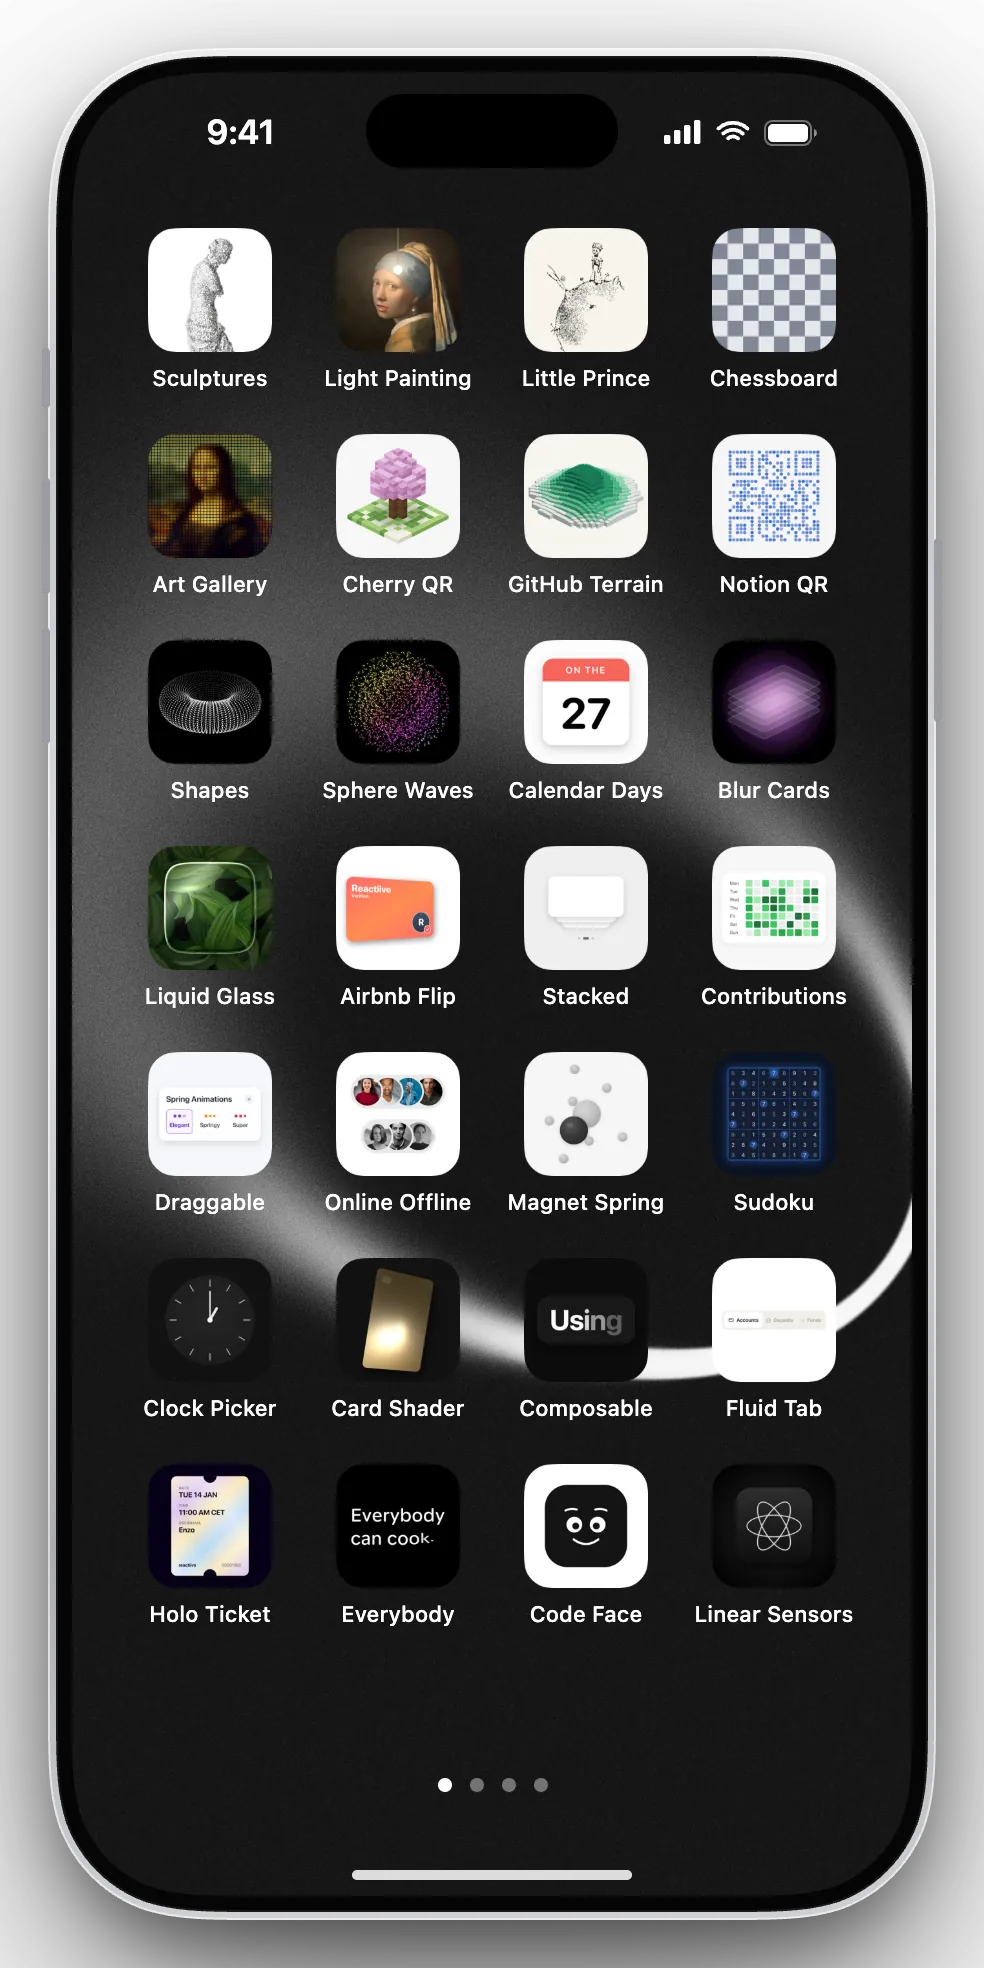
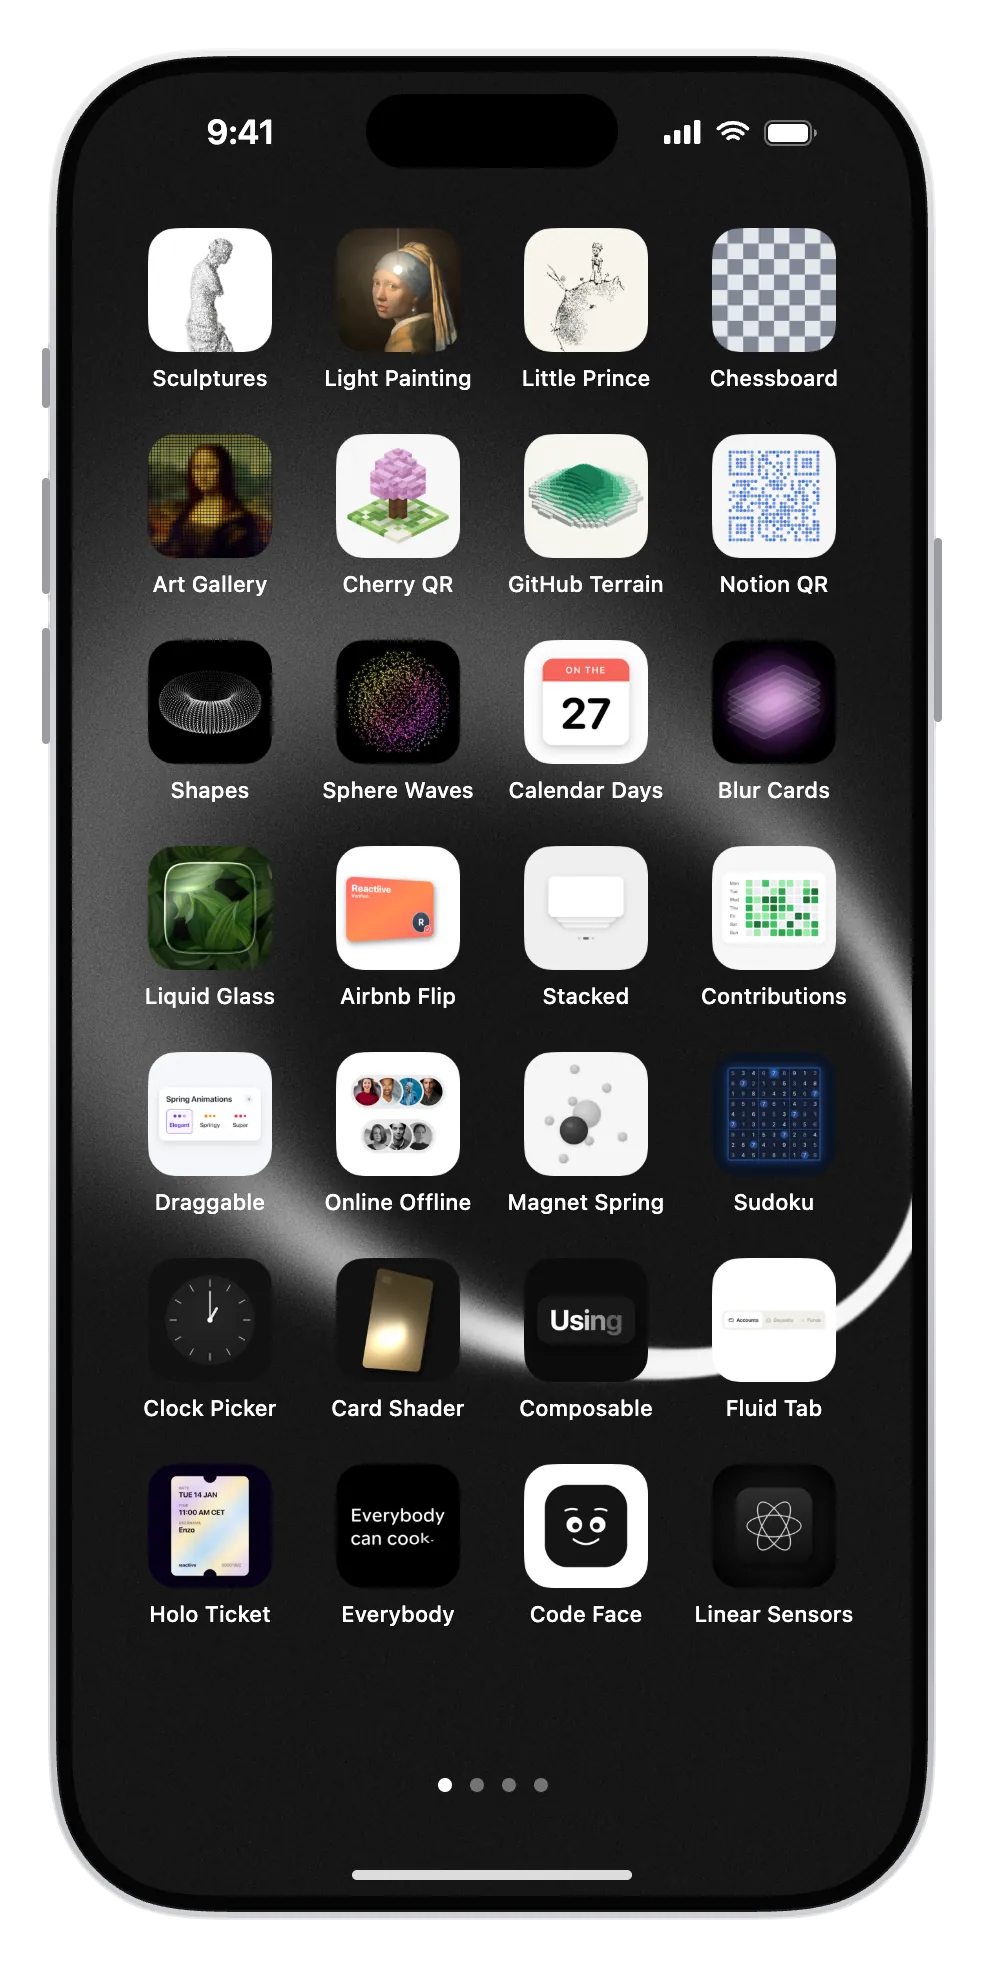
site demos: no dark rectangle around the phone (the still had the app's drop shadow baked in, cut at its edge)
The still is shot without it; the page's own shadow under the device is lighter (.42 / .28).
D18 notes both fixes.

Changed region(s): [[0.0, 0.031, 1.0, 1.0], [0.122, 0.0, 0.8537, 0.031]]

diff --git a/.site/web/head.css b/.site/web/head.css
@@ -122,7 +122,7 @@ main:has([data-motion~=d-page]) ~ *{visibility:hidden}
 [data-motion~=sim-col]::after{content:'';position:absolute;z-index:-1;left:50%;top:50%;width:calc(var(--pw) * 2.8);height:calc(var(--ph) * 1.3);translate:-50% -50%;background:radial-gradient(closest-side,rgb(140 156 250 / .2),rgb(125 143 239 / .07) 48%,transparent);pointer-events:none}
 [data-motion~=sim-wrap]{overflow:visible !important;mask-image:none !important;padding:0 !important;margin:0 !important;flex-shrink:0}
 [data-motion~=sim-sides]{mask-image:none;position:relative}
-[data-motion~=sim-sides]::before{content:'';position:absolute;left:50%;top:50%;width:calc(var(--pw) * .9);height:calc(var(--ph) * .96);translate:-50% -48%;border-radius:calc(var(--ph) * .08);box-shadow:0 calc(var(--ph) * .05) calc(var(--ph) * .12) rgb(0 0 0 / .55),0 calc(var(--ph) * .015) calc(var(--ph) * .03) rgb(0 0 0 / .35);pointer-events:none}
+[data-motion~=sim-sides]::before{content:'';position:absolute;left:50%;top:50%;width:calc(var(--pw) * .9);height:calc(var(--ph) * .96);translate:-50% -48%;border-radius:calc(var(--ph) * .08);box-shadow:0 calc(var(--ph) * .05) calc(var(--ph) * .12) rgb(0 0 0 / .42),0 calc(var(--ph) * .015) calc(var(--ph) * .03) rgb(0 0 0 / .28);pointer-events:none}
 [data-motion~=sim-sides]::after{content:'';position:absolute;left:50%;top:calc(50% + var(--ph) / 2 - var(--ph) * .012);width:calc(var(--pw) * 1.1);height:calc(var(--ph) * .05);translate:-50% 0;background:radial-gradient(closest-side,rgb(0 0 0 / .7),transparent);pointer-events:none;z-index:-1}
 [data-motion~=sim-frame]{height:calc(var(--ph) + 48px) !important}
 :root{--fh:calc(var(--ph) + 48px)}

diff --git a/.site/tools/sim-still.ts b/.site/tools/sim-still.ts
@@ -19,6 +19,9 @@ const rect = await page.eval<{ x: number; y: number; w: number; h: number }>(`((
   const stage = document.querySelector('[data-testid="web-stage"]') ?? document.querySelector('[testid="web-stage"]');
   if (!stage) throw new Error('no web-stage');
   for (let n = stage; n; n = n.parentElement) { n.style.setProperty('background', 'transparent', 'important'); }
+  // No drop shadow in the still: cut at the still's edge it was a darker rectangle around the phone on the page
+  // (decisions.md D18); the page draws its own soft shadow under the device (web/head.css sim-sides::before).
+  for (const n of stage.querySelectorAll('*')) if (getComputedStyle(n).boxShadow.includes('rgba(0, 0, 0, 0.6)')) n.style.setProperty('box-shadow', 'none', 'important');
   document.documentElement.style.background = 'transparent'; document.body.style.background = 'transparent';
   const phone = stage.firstElementChild.getBoundingClientRect();
   return { x: phone.x - 24, y: phone.y - 24, w: phone.width + 48, h: phone.height + 48 };

diff --git a/.site/docs/decisions.md b/.site/docs/decisions.md
@@ -498,6 +498,19 @@ inside the app's own renderer process and the page's, per interaction; site vs t
   The launcher still is re-shot from it. In the site's frame the app now draws only its display (in a sandboxed frame
   its stage, rim, glass and shadow are transparent, isolation.md §6), so the still's phone shows around the display
   rectangle with no lighter corner and no step where the clip meets the rim, at any scale or DPR.
+- **The status bar follows the flight** (owner: "this bar stutters badly when it animates"). The framed phone's status
+  bar and home indicator took the demo's ink at the route's change: on a light demo the bar turned black in the tap's
+  first frame, over the launcher, while the card was still an icon, and turned white again only when the close had
+  landed (a 255-of-255 jump in one frame, both ways; `tools/parity/sim-statusbar.ts`). Each is now drawn in both inks
+  (`home/web-phone.contract` WebStatusBar) and cross-faded by opacity in the flight's own keyframes as the card covers
+  the bar (35-95 % of its width), on the compositor: at most 62-67 of 255 per frame, never before the card covers half
+  the screen, standalone and framed. The module change is a compose-time patch of the artifact's `modules/index.js`
+  (`tools/demos-web/patches.ts`); the Demos app's `modules/web/index.js` stays as on main.
+- **No dark rectangle around the phone** (owner: "what is this black area around the sim", outside the rim). The
+  launcher still had the app's drop shadow baked in, cut at the still's edge: a darker rectangle, 18 px past the rim,
+  with a 5-level step where it ended (sampled along a row at 1440, DPR 2). The still is shot without it
+  (`tools/sim-still.ts`), and the page's own soft shadow under the device is a little lighter (.42 / .28): the page's
+  gradient now runs right up to the rim (19-20 levels, no step).
 - **Glass buttons.** The web stand-in for iOS 26's glass close / info buttons read as flat grey discs over light demos;
   now a neutral translucent tint over a blur, a specular rim lit from the top, a soft lift shadow and a white glyph
   with a hairline shadow (`home/web-chrome.contract` WebRoundButton; Exact's `backdrop-filter` takes blur and saturate
